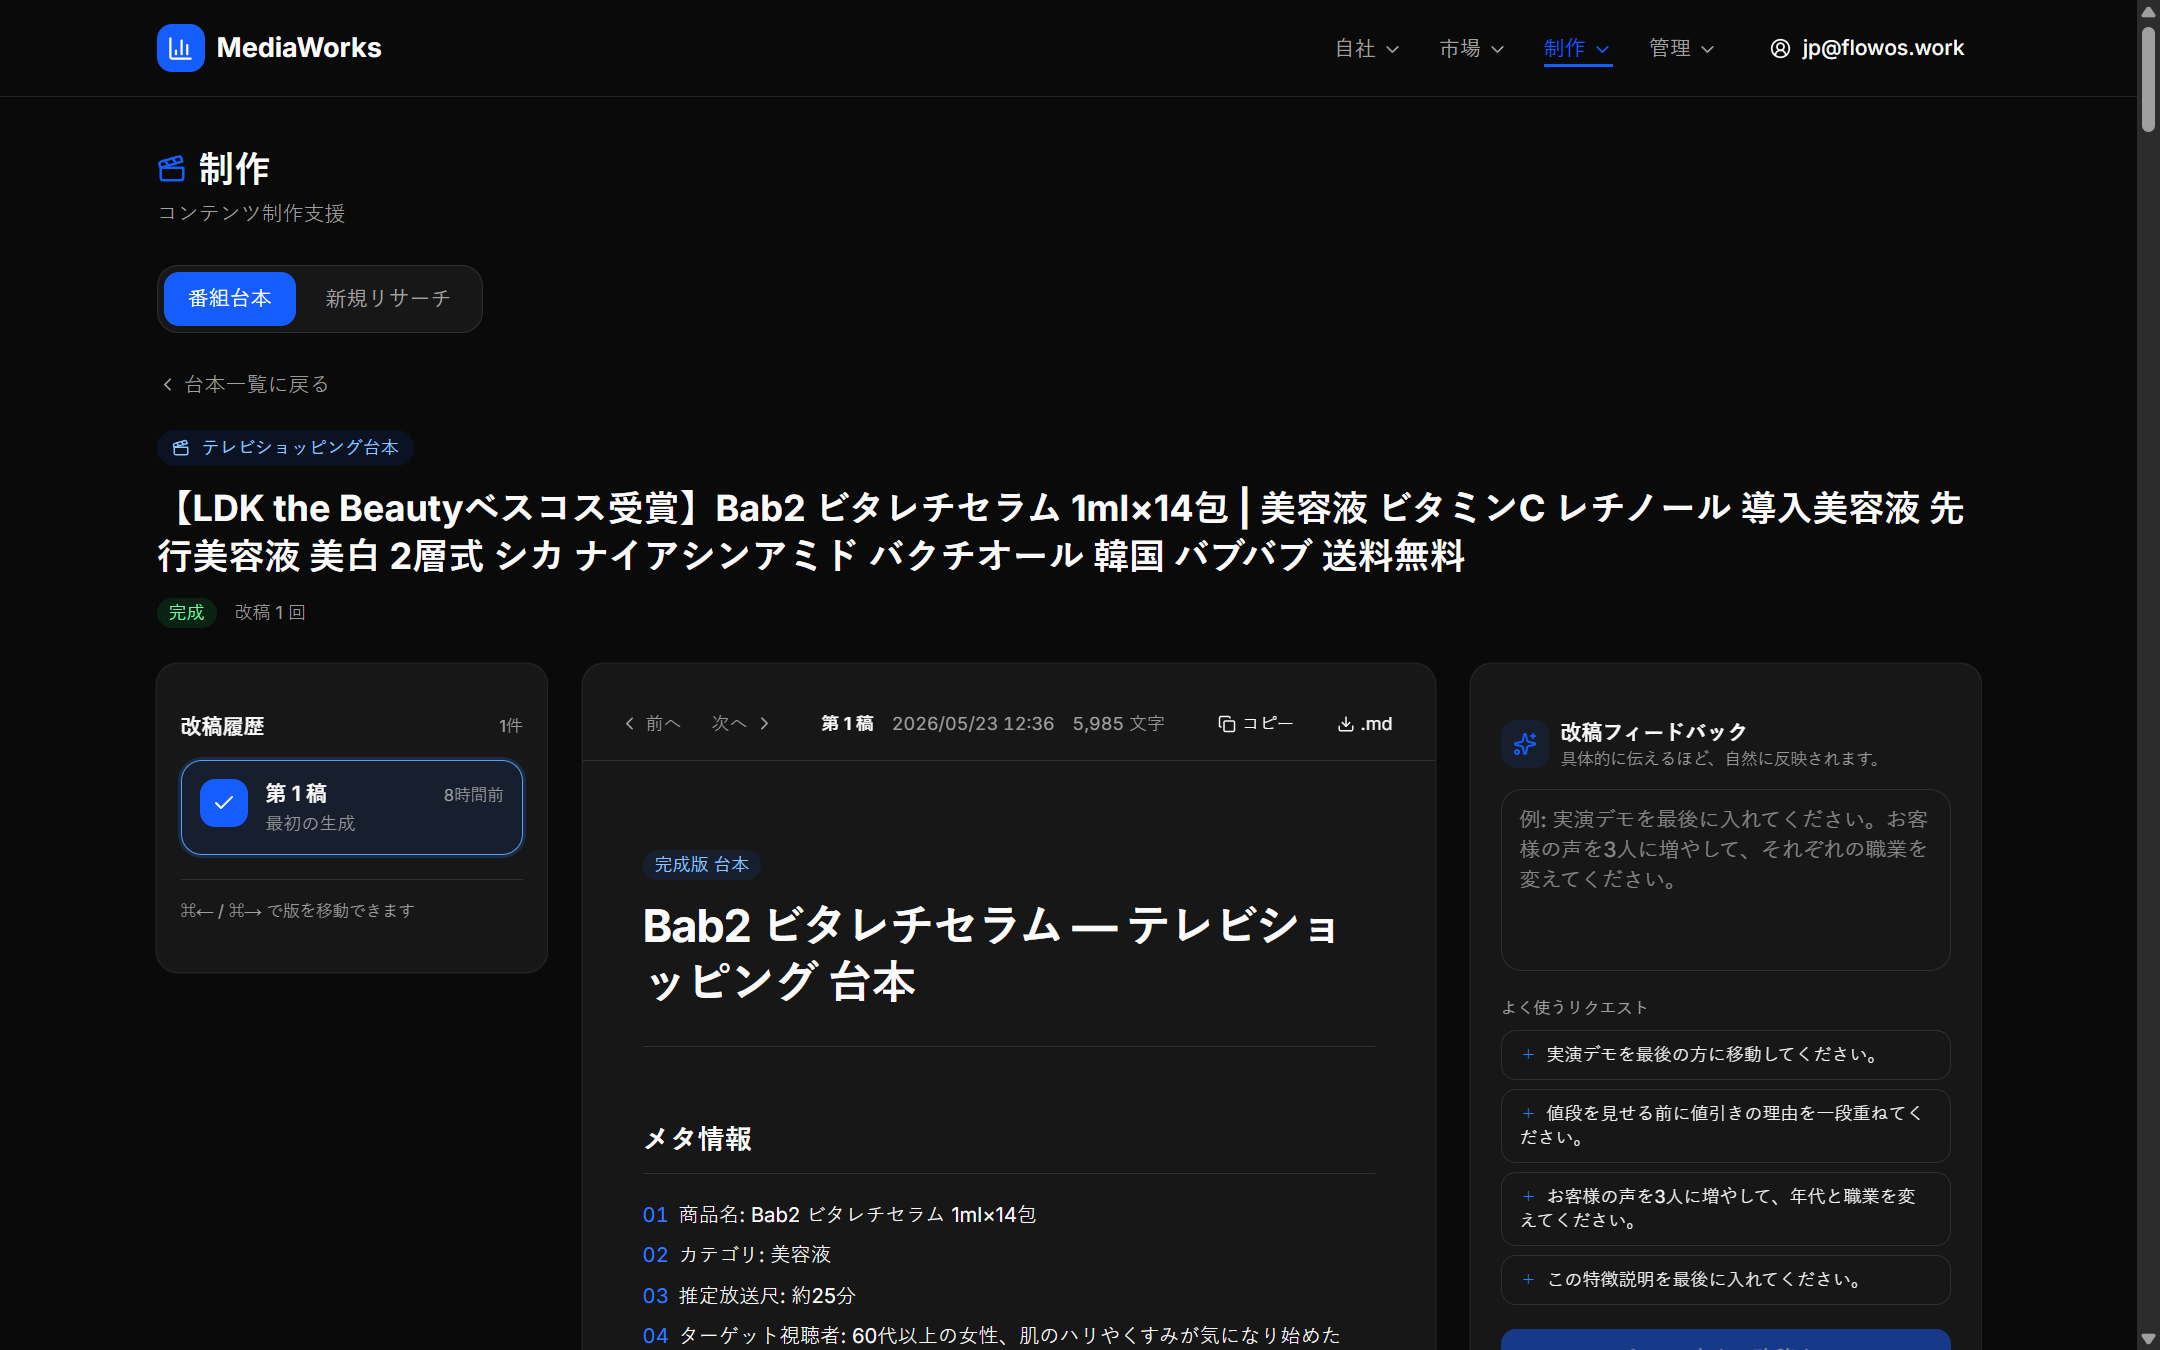
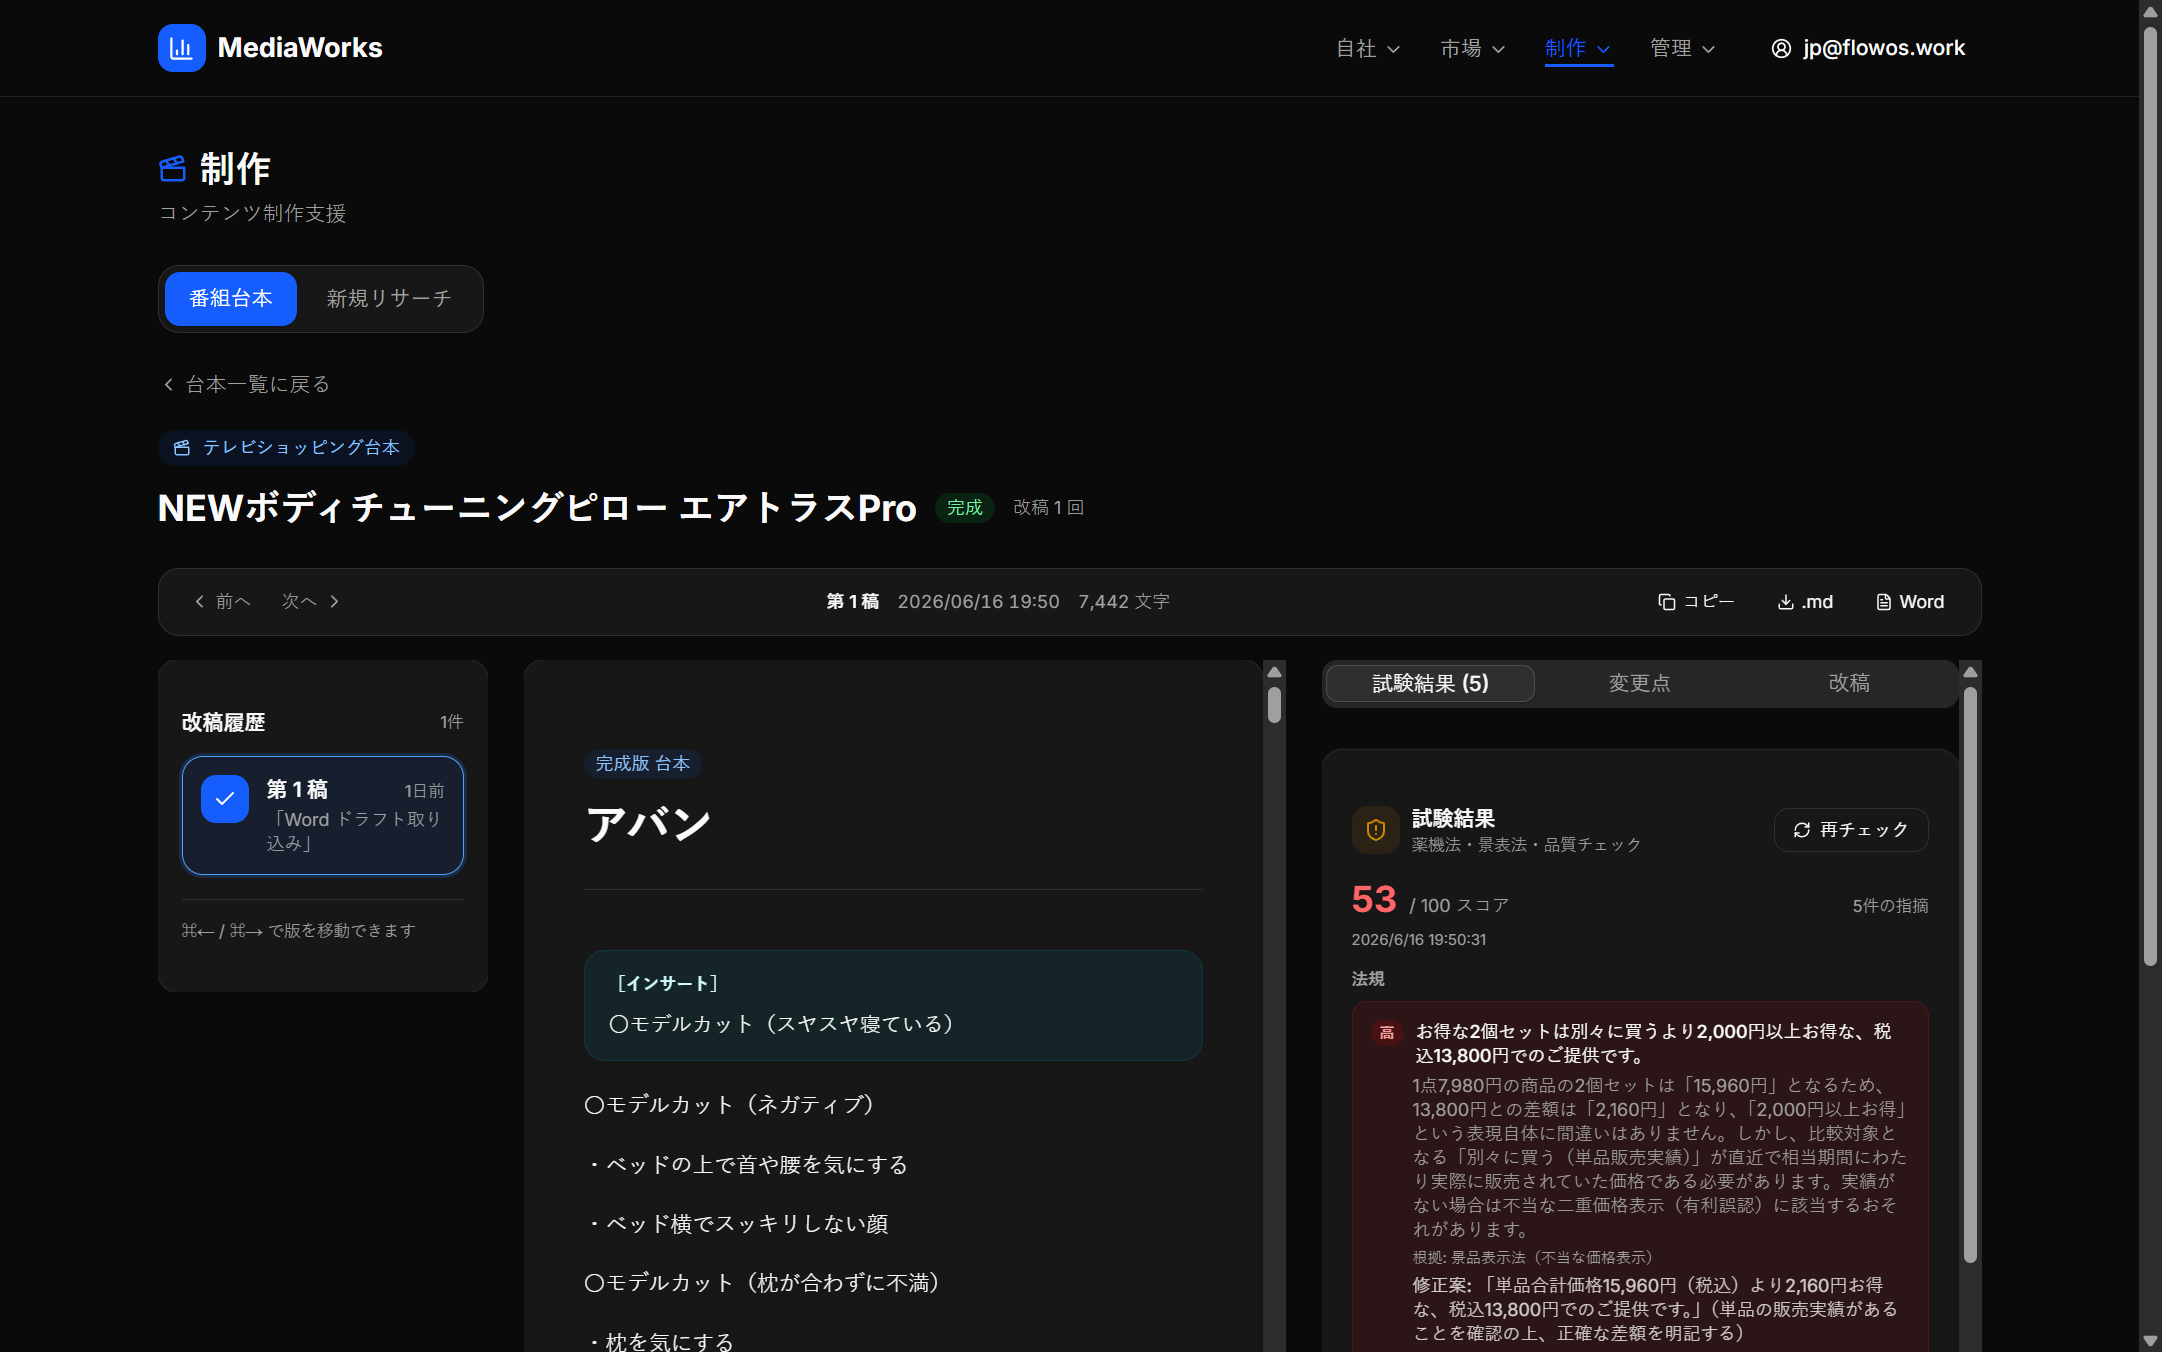
docs(screenplay): add JA guide section for 2-pane review layout
Update the screenplay manual in the user guide to match the merged
2-pane detail layout (header bar + script pane + tabbed review panel).
Rewrites the outdated "read & revise" item into two items:
- 詳細画面の構成 (2ペイン): top-bar version nav + コピー/.md/Word,
  independently scrollable 台本 + 検証 panes, 改稿履歴 rail/dropdown.
- 検証パネルの3タブ: 試験結果 / 変更点 / 改稿 usage, version-aware
  check, v1 diff empty state, refine flow auto-jumping to 変更点.
Replace 08b screenshot with the new layout; add 08c (改稿 tab).
Japanese guide only.

diff --git a/lib/user-guide/content.ts b/lib/user-guide/content.ts
@@ -496,7 +496,7 @@ const ja: GuideContent = {
 		},
 		{
 			title: "番組台本を作る",
-			summary: "リサーチ完了商品から、テレビショッピング用の全編台本（メタ情報・構成・本編・価格表・コンプライアンスノート）を自動生成します。",
+			summary: "リサーチ完了商品から全編台本を自動生成し、台本と検証パネルを左右に並べて読み比べながら改稿します。",
 			items: [
 				{
 					title: "台本一覧から既存を開く",
@@ -514,18 +514,33 @@ const ja: GuideContent = {
 					},
 				},
 				{
-					title: "台本を読み・改稿する",
-					body: "台本詳細ページは「メタ情報 → 構成 → 本編（アバン / スタジオ各シーン / CTA / VTR）→ 価格＆オファー → スタイル・コンプライアンスノート」の順に並びます。右側パネルで版を切り替え（⌘← / ⌘→）、下部「改稿フィードバック」に自然文で改稿依頼を入力すると新しい版が生成されます。よく使うリクエストはワンクリックで挿入できます。",
+					title: "詳細画面の構成 — 台本と検証パネルの2ペイン",
+					body: "タイトルをクリックすると詳細画面が開きます。画面は上部の操作バー・中央の「台本」ペイン・右側の「検証パネル」で構成され、台本ペインと検証パネルはそれぞれ独立してスクロールできます。台本を読みながら、右側の指摘や差分を横に並べて見比べられるのが特徴です。画面が広い場合は左端に「改稿履歴」レールが常時表示され、狭い画面では台本上部のドロップダウンに切り替わります。",
 					steps: [
-						"上部「コピー」/「.md」で台本を取得 → 進行台本や社内Wiki にそのまま流し込めます。",
-						"気に入らない箇所があれば下部「改稿フィードバック」に自然文で指示（例: お客様の声を3人に増やしてください）。",
-						"「改稿する」をクリック → 新しい版が生成され、右パネルの履歴に追加されます。",
-						"⌘← / ⌘→ または履歴クリックで版を行き来 → 差分を見比べて最終版を確定。",
+						"上部バー左の「前へ / 次へ」または ⌘← / ⌘→ で版（第N稿）を切り替え。中央に第N稿・作成日時・文字数が表示されます。",
+						"上部バー右の「コピー」「.md」「Word」で、いま表示中の版を取得 → 進行台本や社内Wikiにそのまま流し込めます。",
+						"中央の台本ペインは「アバン → VTR → スタジオ → 価格＆オファー → CTA → 規約」の順。シーンごとにト書き＋セリフが並びます。",
+						"右側の検証パネル（試験結果 / 変更点 / 改稿）を切り替えながら、台本と照らし合わせて確認します。",
 					],
 					image: {
 						src: guideImagePath("08b-screenplay-detail.png"),
-						alt: "番組台本詳細ページ。本編シーン（アバン、スタジオ①など）、価格＆オファー表、改稿フィードバックパネルが表示されている。",
-						caption: "本編は1シーンごとにト書き＋セリフ。そのまま進行台本に使える粒度。",
+						alt: "番組台本の詳細画面。上部に版切替と取得ボタン、左に改稿履歴、中央に台本本編、右に試験結果タブ（スコアと指摘）が並ぶ2ペイン構成。",
+						caption: "上部バー＋台本＋検証パネルの2ペイン。台本と検証は別々にスクロールできる。",
+					},
+				},
+				{
+					title: "検証パネルの3タブ — 試験結果・変更点・改稿",
+					body: "右側の検証パネルは3つのタブで構成され、いま表示中の版に対して切り替わります。「試験結果」は薬機法・景表法・品質の自動チェック結果、「変更点」は前の版との差分、「改稿」は次の版を作るためのフィードバック入力です。試験結果タブの見出しには指摘件数（例: 試験結果 (5)）がバッジ表示されるため、他のタブを開いていても件数が分かります。",
+					steps: [
+						"「試験結果」: 100点満点のスコアと指摘件数、各指摘のカテゴリ（法規 / ファクト / 品質）・重要度（高 / 中 / 低）・根拠・修正案を確認。版を切り替えると、その版のチェック結果に自動で更新されます。最新化したいときは「再チェック」を押します。",
+						"「変更点」: 直前の版からの追加・修正をハイライト表示。初稿（第1稿）では「初稿のため比較対象がありません。」と表示され、差分は第2稿以降から見られます。",
+						"「改稿」: 入力欄に自然文で改稿依頼を書く（例: お客様の声を3人に増やして、年代と職業を変えてください）。「よく使うリクエスト」のボタンでワンクリック挿入もできます。",
+						"「この内容で改稿する」を押すと新しい版が生成され、改稿履歴に追加 → 完了すると新しい版と「変更点」タブが自動で開くので、何が変わったかをすぐ確認できます。",
+					],
+					image: {
+						src: guideImagePath("08c-screenplay-revise.png"),
+						alt: "番組台本の改稿タブ。右側の検証パネルに「改稿フィードバック」の入力欄と「よく使うリクエスト」のボタンが並んでいる。",
+						caption: "改稿タブで自然文の指示を送ると、新しい版が生成される。",
 					},
 				},
 			],
